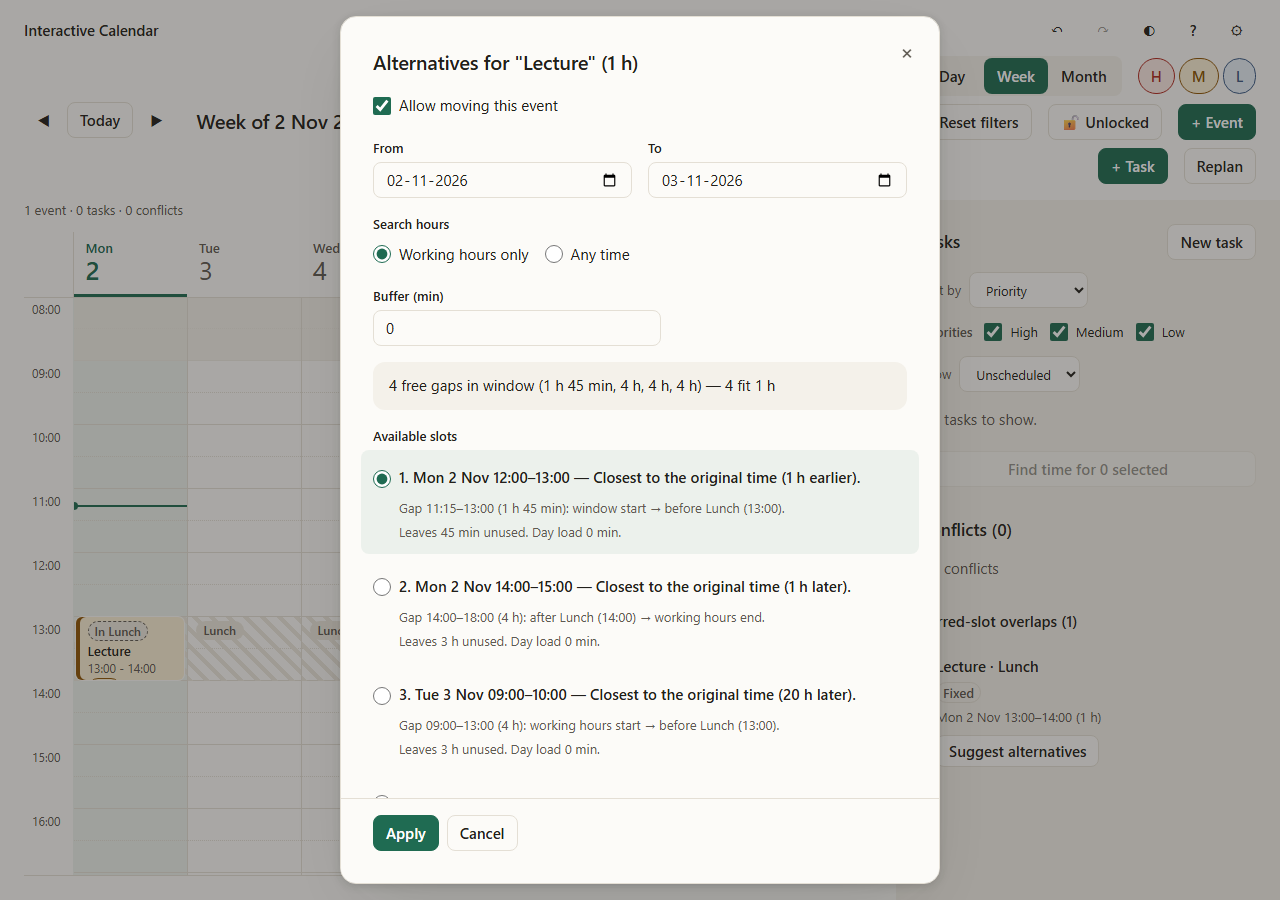
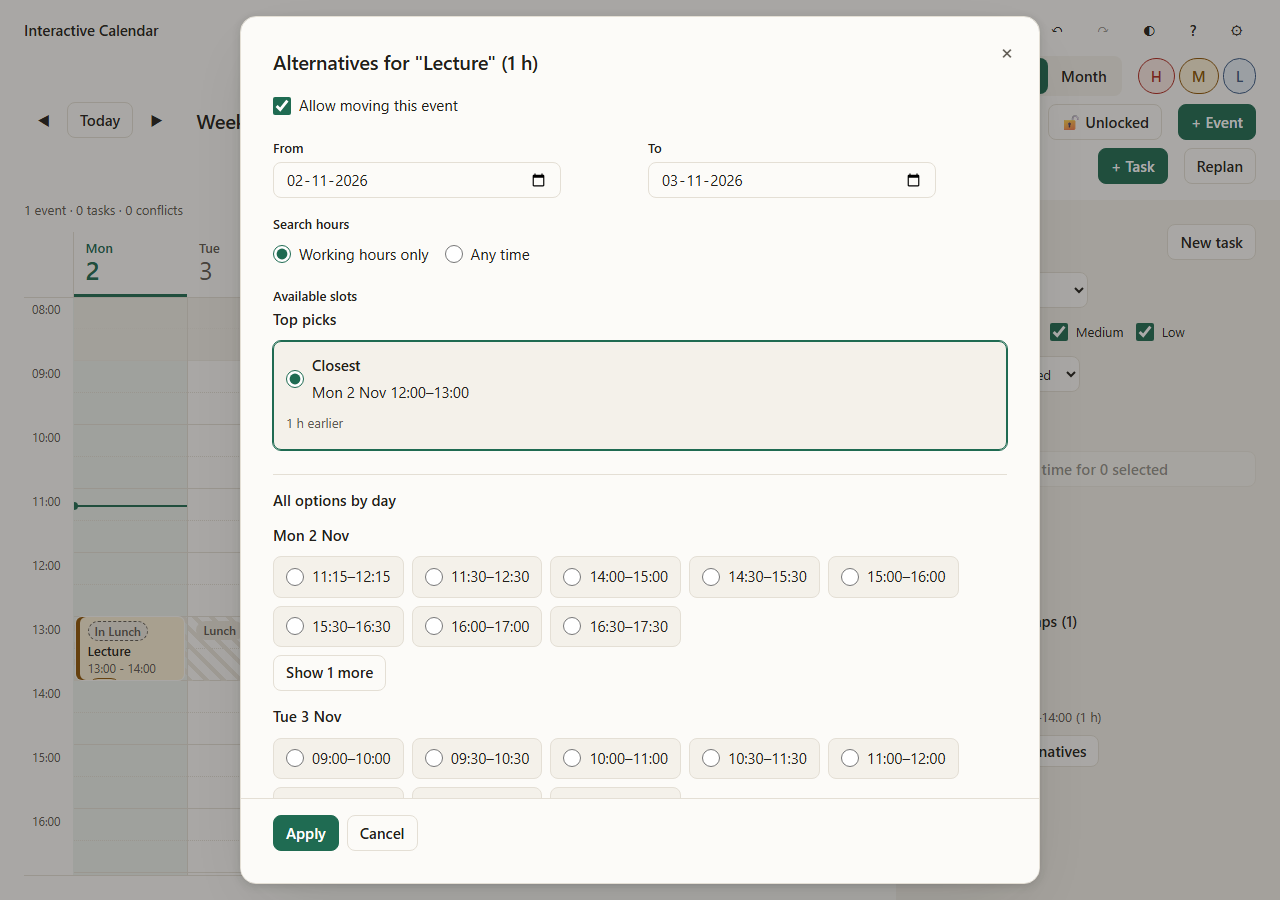
docs: record reviewed picker captures at all desktop widths (WI-51)

diff --git a/scripts/screenshots/screenshots.spec.ts b/scripts/screenshots/screenshots.spec.ts
@@ -69,7 +69,9 @@ for (const theme of THEMES) {
       await expect(picker.getByRole('button', { name: 'Apply', exact: true })).toBeEnabled();
       await capture(page, `fixed-alternatives-on-${theme}-${width}`);
       await picker.getByRole('button', { name: 'Details', exact: true }).click();
-      await picker.getByLabel('Buffer (min)').scrollIntoViewIfNeeded();
+      await picker.evaluate((dialog) => {
+        dialog.scrollTop = dialog.scrollHeight;
+      });
       await capture(page, `fixed-alternatives-details-${theme}-${width}`);
     });
 
@@ -84,7 +86,9 @@ for (const theme of THEMES) {
       await expect(picker.getByRole('region', { name: 'Top picks' })).toBeVisible();
       await capture(page, `task-suggestions-${theme}-${width}`);
       await picker.getByRole('button', { name: 'Details', exact: true }).click();
-      await picker.getByLabel('Buffer (min)').scrollIntoViewIfNeeded();
+      await picker.evaluate((dialog) => {
+        dialog.scrollTop = dialog.scrollHeight;
+      });
       await capture(page, `task-suggestions-details-${theme}-${width}`);
     });
   }

diff --git a/src/ui/components/SlotPicker/SuggestionOptions.tsx b/src/ui/components/SlotPicker/SuggestionOptions.tsx
@@ -13,6 +13,7 @@ interface ChoiceProps {
 }
 
 // PRE:  option is a candidate; selected is its search's selected index; groupName spans all choices
+//       uses pickerSelect(index) to select the result option
 // POST: renders a native radio whose change selects this option in the shared picker
 function SlotRadio({ option, selected, groupName }: ChoiceProps) {
   const select = useAppStore((state) => state.actions.pickerSelect);

diff --git a/tests/integration/taskScheduler.test.ts b/tests/integration/taskScheduler.test.ts
@@ -220,6 +220,8 @@ describe('findSlots (FR5)', () => {
       start: slot.start,
       dayLoadMin: 60,
     }));
+    // PRE:  slots are expected starts/loads; effectiveCriterion is the expected mapped strategy
+    // POST: returns the exact expected option metadata in slots' order
     const as = (effectiveCriterion: string, slots: typeof mon) =>
       slots.map((slot) => ({ ...slot, effectiveCriterion }));
 

diff --git a/README.md b/README.md
@@ -151,7 +151,9 @@ Every test case, with its exact inputs and expected outputs, is listed in [TEST_
 | ----------------------- | ---------------------------------------------------------------------------------------------------------------------------------------------------------------------------------------------------------------------------------------------------------------------- | ------------------------------------------------------------------------------------------------------------------------------------------------------------------------------------------------------------------------------------------------------------------ |
 | Week                    | [1440 px](docs/screenshots/week-light-1440.png) · [1280 px](docs/screenshots/week-light-1280.png) · [1024 px](docs/screenshots/week-light-1024.png)                                                                                                                    | [1440 px](docs/screenshots/week-dark-1440.png) · [1280 px](docs/screenshots/week-dark-1280.png) · [1024 px](docs/screenshots/week-dark-1024.png)                                                                                                                   |
 | Categories              | [1440 px](docs/screenshots/categories-light-1440.png) · [1280 px](docs/screenshots/categories-light-1280.png) · [1024 px](docs/screenshots/categories-light-1024.png)                                                                                                  | [1440 px](docs/screenshots/categories-dark-1440.png) · [1280 px](docs/screenshots/categories-dark-1280.png) · [1024 px](docs/screenshots/categories-dark-1024.png)                                                                                                 |
-| Find time (slot picker) | [light](docs/screenshots/slot-picker-light.png)                                                                                                                                                                                                                        | [dark](docs/screenshots/slot-picker-dark.png)                                                                                                                                                                                                                      |
+| Find time (slot picker) | [1440 px](docs/screenshots/task-suggestions-light-1440.png) / [1280 px](docs/screenshots/task-suggestions-light-1280.png) / [1024 px](docs/screenshots/task-suggestions-light-1024.png)                                                                                | [1440 px](docs/screenshots/task-suggestions-dark-1440.png) / [1280 px](docs/screenshots/task-suggestions-dark-1280.png) / [1024 px](docs/screenshots/task-suggestions-dark-1024.png)                                                                               |
+| Find time Details       | [1440 px](docs/screenshots/task-suggestions-details-light-1440.png) / [1280 px](docs/screenshots/task-suggestions-details-light-1280.png) / [1024 px](docs/screenshots/task-suggestions-details-light-1024.png)                                                        | [1440 px](docs/screenshots/task-suggestions-details-dark-1440.png) / [1280 px](docs/screenshots/task-suggestions-details-dark-1280.png) / [1024 px](docs/screenshots/task-suggestions-details-dark-1024.png)                                                       |
+| Alternatives Details    | [1440 px](docs/screenshots/fixed-alternatives-details-light-1440.png) / [1280 px](docs/screenshots/fixed-alternatives-details-light-1280.png) / [1024 px](docs/screenshots/fixed-alternatives-details-light-1024.png)                                                  | [1440 px](docs/screenshots/fixed-alternatives-details-dark-1440.png) / [1280 px](docs/screenshots/fixed-alternatives-details-dark-1280.png) / [1024 px](docs/screenshots/fixed-alternatives-details-dark-1024.png)                                                 |
 | Fixed-event search      | [off](docs/screenshots/fixed-alternatives-off-light-1440.png) · [1440 px](docs/screenshots/fixed-alternatives-on-light-1440.png) · [1280 px](docs/screenshots/fixed-alternatives-on-light-1280.png) · [1024 px](docs/screenshots/fixed-alternatives-on-light-1024.png) | [off](docs/screenshots/fixed-alternatives-off-dark-1440.png) · [1440 px](docs/screenshots/fixed-alternatives-on-dark-1440.png) · [1280 px](docs/screenshots/fixed-alternatives-on-dark-1280.png) · [1024 px](docs/screenshots/fixed-alternatives-on-dark-1024.png) |
 | Replan with both plans  | [light](docs/screenshots/replan-light.png)                                                                                                                                                                                                                             | [dark](docs/screenshots/replan-dark.png)                                                                                                                                                                                                                           |
 | Event dialog            | [light](docs/screenshots/event-dialog-light-1440.png)                                                                                                                                                                                                                  | [dark](docs/screenshots/event-dialog-dark-1440.png)                                                                                                                                                                                                                |

diff --git a/docs/progress/PROGRESS.md b/docs/progress/PROGRESS.md
@@ -253,6 +253,7 @@ Binding design: `docs/extras/AUDIT_2.md` (D-01–D-19, C-01–C-08). Work in ord
   - 2026-11-13 · Codex · branch `feat/wi-51-suggestion-pickers` · done: search generates/ranks all candidates; shared picks/day chips/Details implemented; targeted engine/RTL suites green; exact D-06 expectation changes and all three specs/README updated · next: full gate and screenshot review · note: Replan/rankOptions/T34 unchanged; alternatives day groups disambiguate repeated clock labels.
   - 2026-11-13 · Codex · branch `feat/wi-51-suggestion-pickers` · done: full unit suite 737 passed + 1 existing skip, typecheck/lint/Prettier/diff check green; both-theme picker/Details capture scenarios added at all desktop widths · next: full branch gate, visual review, finish/merge/main gate · note: D-06 changed tests: search T6 gaps/fitting count/one option → all candidates/boundaries; task T6 merge→complement→filter, T10 earliest/bestFit, T18 priorityAware mapping; T20 flexible nearest slots and D-02 explicit fixed range; T42 Any time, working-hours-default equivalence and barred exclusion; T50 flexible-window/no-opt-in; SlotPicker T6 summary/radios, T10 criterion reorder → pick preselection, buffer/Stop summary, T20 target/distance/toggle/apply; SlotPickerHours night default/switch, working-hours default/flexible note, empty-cause/Any time. Full exact test titles and D-06 rationale are recorded in commit ac07fab. Expanded full arrays/metadata and original apply/storage/history assertions retained.
   - 2026-11-13 · Codex · branch `feat/wi-51-suggestion-pickers` · done: full branch gate green: typecheck/lint, 737 + 1 skipped, overall 98.73/94.17/98.22/98.89, algorithms 99.71/96.48/100/99.69, DST 7, six properties × 10,000, build and 96/96 browsers (32 × 3, zero retries) · next: screenshot review/commit, finish/merge/full main gate · note: docs exact T6/T10/T18/T20 rows and traceability synchronized; handoff Unicode corrected; no code or assertion changes after the successful gate.
+  - 2026-11-13 · Codex · branch `feat/wi-51-suggestion-pickers` · done: all 64 screenshot scenes passed (90 PNGs); relevant default/Details views reviewed in both themes at 1440/1280/1024; Details captures now scroll fully to the explanation; README links each width; formatting/lint clean · next: finish/merge WI-51 and full main gate, then WI-52 · note: final post-gate changes are capture scrolling, documentation and two contract comments only; production behaviour and test assertions unchanged.
 - [ ] **WI-52** Past time — owner S + Dv — depends on 51
   - Resume after WI-51's full merge gate.
   - Done when: Panel grouping and counts; muted past styling; Replan wording.
